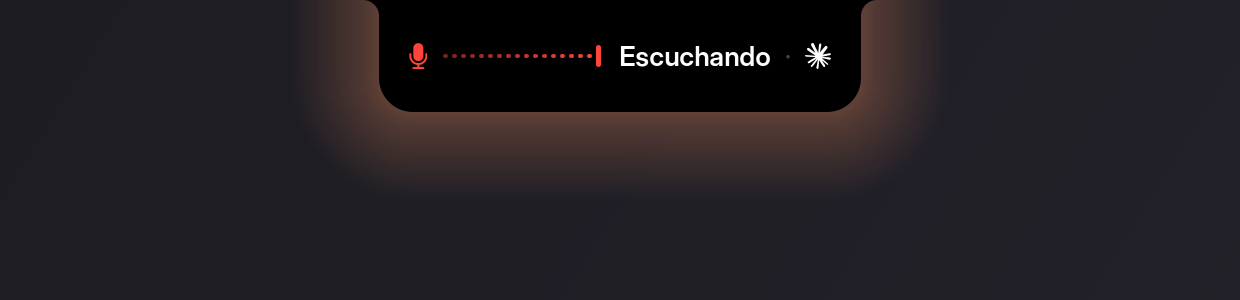
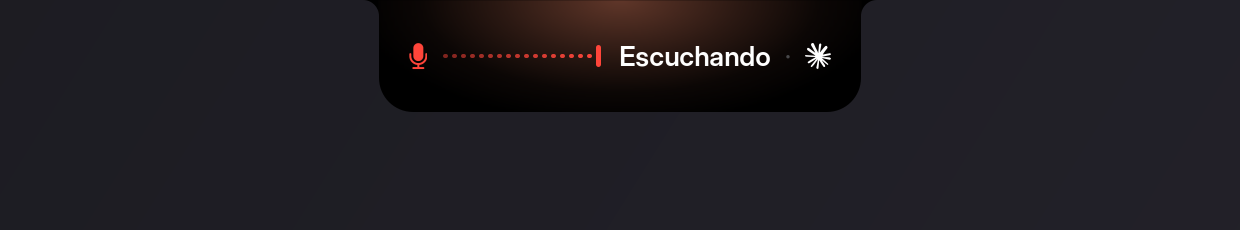
El resplandor, por dentro: medio radial pegado al canto de arriba
El halo de fuera no era lo que se pedia. Este va DENTRO del cuerpo
negro, recortado a la silueta y debajo del contenido: una elipse ancha
y baja con el centro en el canto de arriba, de la que se ve la mitad de
abajo.

Dentro y no fuera tiene una ventaja que el otro no tiene: se ve siempre
igual, porque esta sobre negro y no sobre el fondo de escritorio que
cada uno tenga.

La elipse se define en fracciones de la isla y no en pixeles, asi que
tiene la misma forma en una pildora de 300 y en una tarjeta de 900 y una
sola textura de 128x64 por color sirve para las dos: se estira al
pintarla, que es justo lo que la hace un medio radial estirado. 0,16 ms
por fotograma, frente a 0,9 pintando el degradado de verdad cada vez.

El halo de fuera se queda en el codigo pero apagado (GLOW_HALO): los dos
a la vez se pisan.

Claude-Session: https://claude.ai/code/session_01XVYWSP19DR3ycNTVCStvp5

Changed region(s): [[0.2452, 0.0, 0.7355, 0.5478]]

diff --git a/render.py b/render.py
@@ -765,6 +765,62 @@ def _glow_tex(w, h, color):
     return surf
 
 
+# El resplandor de DENTRO se guarda normalizado: la elipse se define en
+# fracciones del tamano de la isla, asi que una sola textura por color
+# sirve para cualquier anchura. Estirarla es justo lo que la hace
+# "medio radial estirado".
+_dentro_cache = {}
+_DENTRO_TEX = (128, 64)
+
+
+def _dentro_tex(color):
+    tw, th = _DENTRO_TEX
+    surf = cairo.ImageSurface(cairo.FORMAT_ARGB32, tw, th)
+    cr = cairo.Context(surf)
+    g = cairo.RadialGradient(tw * 0.5, 0, 0,
+                             tw * 0.5, 0, tw * T.GLOW_IN_RX)
+    r, v, a = color
+    for pos, k in ((0.0, 1.0), (0.45, 0.45), (0.75, 0.12), (1.0, 0.0)):
+        g.add_color_stop_rgba(pos, r, v, a, k)
+    # La elipse: ancha y baja. El centro va EN el canto de arriba, asi
+    # que lo que se ve es la mitad de abajo.
+    cr.save()
+    cr.scale(1.0, th * T.GLOW_IN_RY / (tw * T.GLOW_IN_RX))
+    cr.set_source(g)
+    cr.rectangle(0, 0, tw, th / (th * T.GLOW_IN_RY / (tw * T.GLOW_IN_RX)))
+    cr.fill()
+    cr.restore()
+    surf.flush()
+    return surf
+
+
+def resplandor_dentro(cr, x, y, w, h, color, alpha):
+    """La luz DENTRO del notch: medio radial estirado, pegado al canto
+    de arriba.
+
+    Va despues de recortar a la silueta y antes del contenido, asi que
+    el texto queda por encima y se sigue leyendo igual. Es la misma
+    idea que el halo de fuera pero al reves: en vez de iluminar el
+    escritorio, ilumina el propio cuerpo negro.
+    """
+    if alpha <= 0.004:
+        return
+    clave = (int(color[0] * 24), int(color[1] * 24), int(color[2] * 24))
+    tex = _dentro_cache.get(clave)
+    if tex is None:
+        if len(_dentro_cache) >= 24:
+            _dentro_cache.clear()
+        tex = _dentro_cache[clave] = _dentro_tex(color)
+    tw, th = tex.get_width(), tex.get_height()
+    cr.save()
+    cr.translate(x, y)
+    cr.scale(w / float(tw), h / float(th))
+    cr.set_source_surface(tex, 0, 0)
+    cr.get_source().set_filter(cairo.FILTER_BILINEAR)
+    cr.paint_with_alpha(alpha)
+    cr.restore()
+
+
 def resplandor(cr, x, y, w, h, color, alpha):
     """La luz que echa la isla por los bordes.
 

diff --git a/islandd.py b/islandd.py
@@ -2990,7 +2990,8 @@ class Island(Gtk.Window):
         # El halo se derrama fuera de la isla: si la zona a repintar
         # fuese solo la isla, quedaria medio halo pintado del fotograma
         # anterior colgando a los lados.
-        borde = 40 + (2 * T.GLOW_M if self.sp_glow.value > 0.004 else 0)
+        borde = 40 + (2 * T.GLOW_M if T.GLOW_HALO
+                      and self.sp_glow.value > 0.004 else 0)
         cw = max(self.sp_w.value, self.sp_w.target) + borde
         ch = max(self.sp_h.value, self.sp_h.target) + T.TOP + borde
         # Union con la zona del fotograma ANTERIOR: al encogerse la isla,
@@ -3245,10 +3246,11 @@ class Island(Gtk.Window):
 
         x, y, w, h = self.geom()
 
-        # La luz, antes que el cuerpo: el notch es negro OPACO, asi que
-        # todo lo que caiga dentro queda tapado y lo que se ve es el
-        # halo sobre el escritorio.
-        if self.glow_col is not None and self.sp_glow.value > 0.004:
+        # El halo de FUERA, antes que el cuerpo: el notch es negro
+        # OPACO, asi que lo que cae dentro queda tapado y lo que se ve
+        # es el derrame sobre el escritorio. Apagado por defecto.
+        if (T.GLOW_HALO and self.glow_col is not None
+                and self.sp_glow.value > 0.004):
             R.resplandor(cr, x, y, w, h, self.glow_col,
                          self.sp_glow.value * T.GLOW_A)
 
@@ -3259,6 +3261,16 @@ class Island(Gtk.Window):
         cr.set_source_rgb(*T.ISLAND)
         cr.fill_preserve()
         cr.clip()
+
+        # Y la luz de DENTRO, ya recortada a la silueta: medio radial
+        # estirado pegado al canto de arriba. Va antes del contenido,
+        # asi que el texto queda encima y se lee igual.
+        #
+        # Esta es la que se ve siempre: esta sobre el cuerpo negro y no
+        # depende del fondo de escritorio que haya detras.
+        if self.glow_col is not None and self.sp_glow.value > 0.004:
+            R.resplandor_dentro(cr, x, y, w, h, self.glow_col,
+                                self.sp_glow.value * T.GLOW_IN_A)
 
         f = max(0.0, min(1.0, self.sp_fade.value))
         cy = y + h / 2.0

diff --git a/theme.py b/theme.py
@@ -561,3 +561,18 @@ ACCION_SUB = {
     "emoji": "Abre el selector",
     "portapapeles": "Lo \u00faltimo que has copiado",
 }
+
+# El resplandor de DENTRO: medio radial estirado pegado al canto de
+# arriba del notch. Es el que se ve siempre, porque esta sobre el
+# cuerpo negro y no depende del fondo de escritorio que tengas.
+#
+# El tamano va en fracciones de la isla, no en pixeles: asi la elipse
+# tiene la misma forma en una pildora de 300 y en una tarjeta de 900, y
+# una sola textura por color vale para las dos.
+GLOW_IN_A  = 0.45     # opacidad en el centro
+GLOW_IN_RX = 0.55     # radio horizontal, en anchos de isla
+GLOW_IN_RY = 1.10     # radio vertical, en altos de isla
+
+# El halo de FUERA (el que se derrama sobre el escritorio). Apagado por
+# defecto: es otro efecto distinto, y los dos a la vez se pisan.
+GLOW_HALO  = False

diff --git a/README.md b/README.md
@@ -99,13 +99,19 @@ te escriben.
   </tr>
 </table>
 
-**Y brilla del color de quien avisa.** El notch es negro opaco, así que lo
-único que puede decir *de quién* es lo que está enseñando, antes de que leas
-nada, es la luz que echa por los bordes. El color sale del icono de verdad —el
-favicon del servicio, la carátula del disco—, no de una lista de colores por
-aplicación: una lista hay que mantenerla y se queda corta con la primera app
-que no esté. Lo único que lleva tabla son los logos de las IA del dictado,
-porque sus SVG son siluetas de un color plano y no hay nada que sacarles.
+**Y se enciende del color de quien avisa.** Un medio radial estirado, pegado
+al canto de arriba y por dentro del propio cuerpo. Dentro y no fuera a
+propósito: así se ve siempre igual, sin depender de qué fondo de escritorio
+tengas detrás. Va debajo del contenido, así que el texto se lee exactamente
+igual que antes.
+
+El color sale del icono de verdad —el favicon del servicio, la carátula del
+disco—, no de una lista de colores por aplicación: una lista hay que
+mantenerla y se queda corta con la primera app que no esté. Lo único que lleva
+tabla son los logos de las IA del dictado, porque sus SVG son siluetas de un
+color plano y no hay nada que sacarles. Y si no hay icono —un `notify-send`
+pelado no manda ninguno— se usa el color con el que se dibuja la campana, que
+es lo que estás viendo igualmente.
 
 Sacarlo no es la media de los píxeles: la media de un logo sobre fondo blanco
 es gris claro, y un resplandor gris no es un resplandor. Cada píxel pesa lo
@@ -113,23 +119,23 @@ es gris claro, y un resplandor gris no es un resplandor. Cada píxel pesa lo
 grises y lo casi negro, y el resultado se sube a un tono vivo. Lo que se pinta
 no es el icono: es la luz que echaría.
 
-El halo no se desenfoca: cairo no sabe. Se genera **una vez** a 1/8 de tamaño,
-con veinte siluetas concéntricas del propio notch cada vez más grandes y más
-tenues, y se estira al pintarlo — el estirado *es* el desenfoque, y lo hace
-gratis el filtro bilineal. La textura se guarda por tamaño redondeado y color,
-así que la expansión de la isla no regenera una por fotograma. Medido: 0,3 ms
-por fotograma mientras hay tarjeta, y en reposo no hay resplandor que pintar.
+La elipse se define en **fracciones de la isla**, no en píxeles, así que tiene
+la misma forma en una píldora de 300 y en una tarjeta de 900 y una sola
+textura de 128x64 por color sirve para las dos: se estira al pintarla, y
+estirarla es justo lo que la hace un medio radial estirado. Medido: 0,16 ms
+por fotograma, frente a 0,9 pintando el degradado de verdad cada vez.
 
-Cuando no hay icono del que sacarlo —un `notify-send` pelado no manda
-ninguno— el halo usa el color con el que se dibuja la campana, así que sigue
-siendo el color de lo que estás viendo. Brillan las **tarjetas**: avisos,
-dictado, música, capturas, el cargador al enchufarlo y las cuentas atrás al
-cumplirse. Los paneles que abres tú, no: un panel no se anuncia, lo has
-pedido.
+Brillan las **tarjetas**: avisos, dictado, música, capturas, el cargador al
+enchufarlo y las cuentas atrás al cumplirse. Los paneles que abres tú, no: un
+panel no se anuncia, lo has pedido. Entre dos avisos seguidos el color
+**viaja** en vez de saltar, y se enciende y se apaga con muelle: un halo que
+aparece de golpe se lee como un parpadeo.
 
-Entre dos avisos seguidos el color **viaja** en vez de saltar, y se enciende y
-se apaga con muelle: un halo que aparece de golpe se lee como un parpadeo.
-Se apaga con `GLOW` en `theme.py`.
+Hay además un halo que se derrama **fuera**, sobre el escritorio, con la
+silueta del notch desenfocada. Viene apagado (`GLOW_HALO` en `theme.py`)
+porque los dos a la vez se pisan. Se genera una vez a 1/8 de tamaño con veinte
+siluetas concéntricas y se estira al pintarlo: el estirado hace de
+desenfoque, que cairo no tiene. `GLOW` apaga los dos.
 
 <table>
   <tr>
